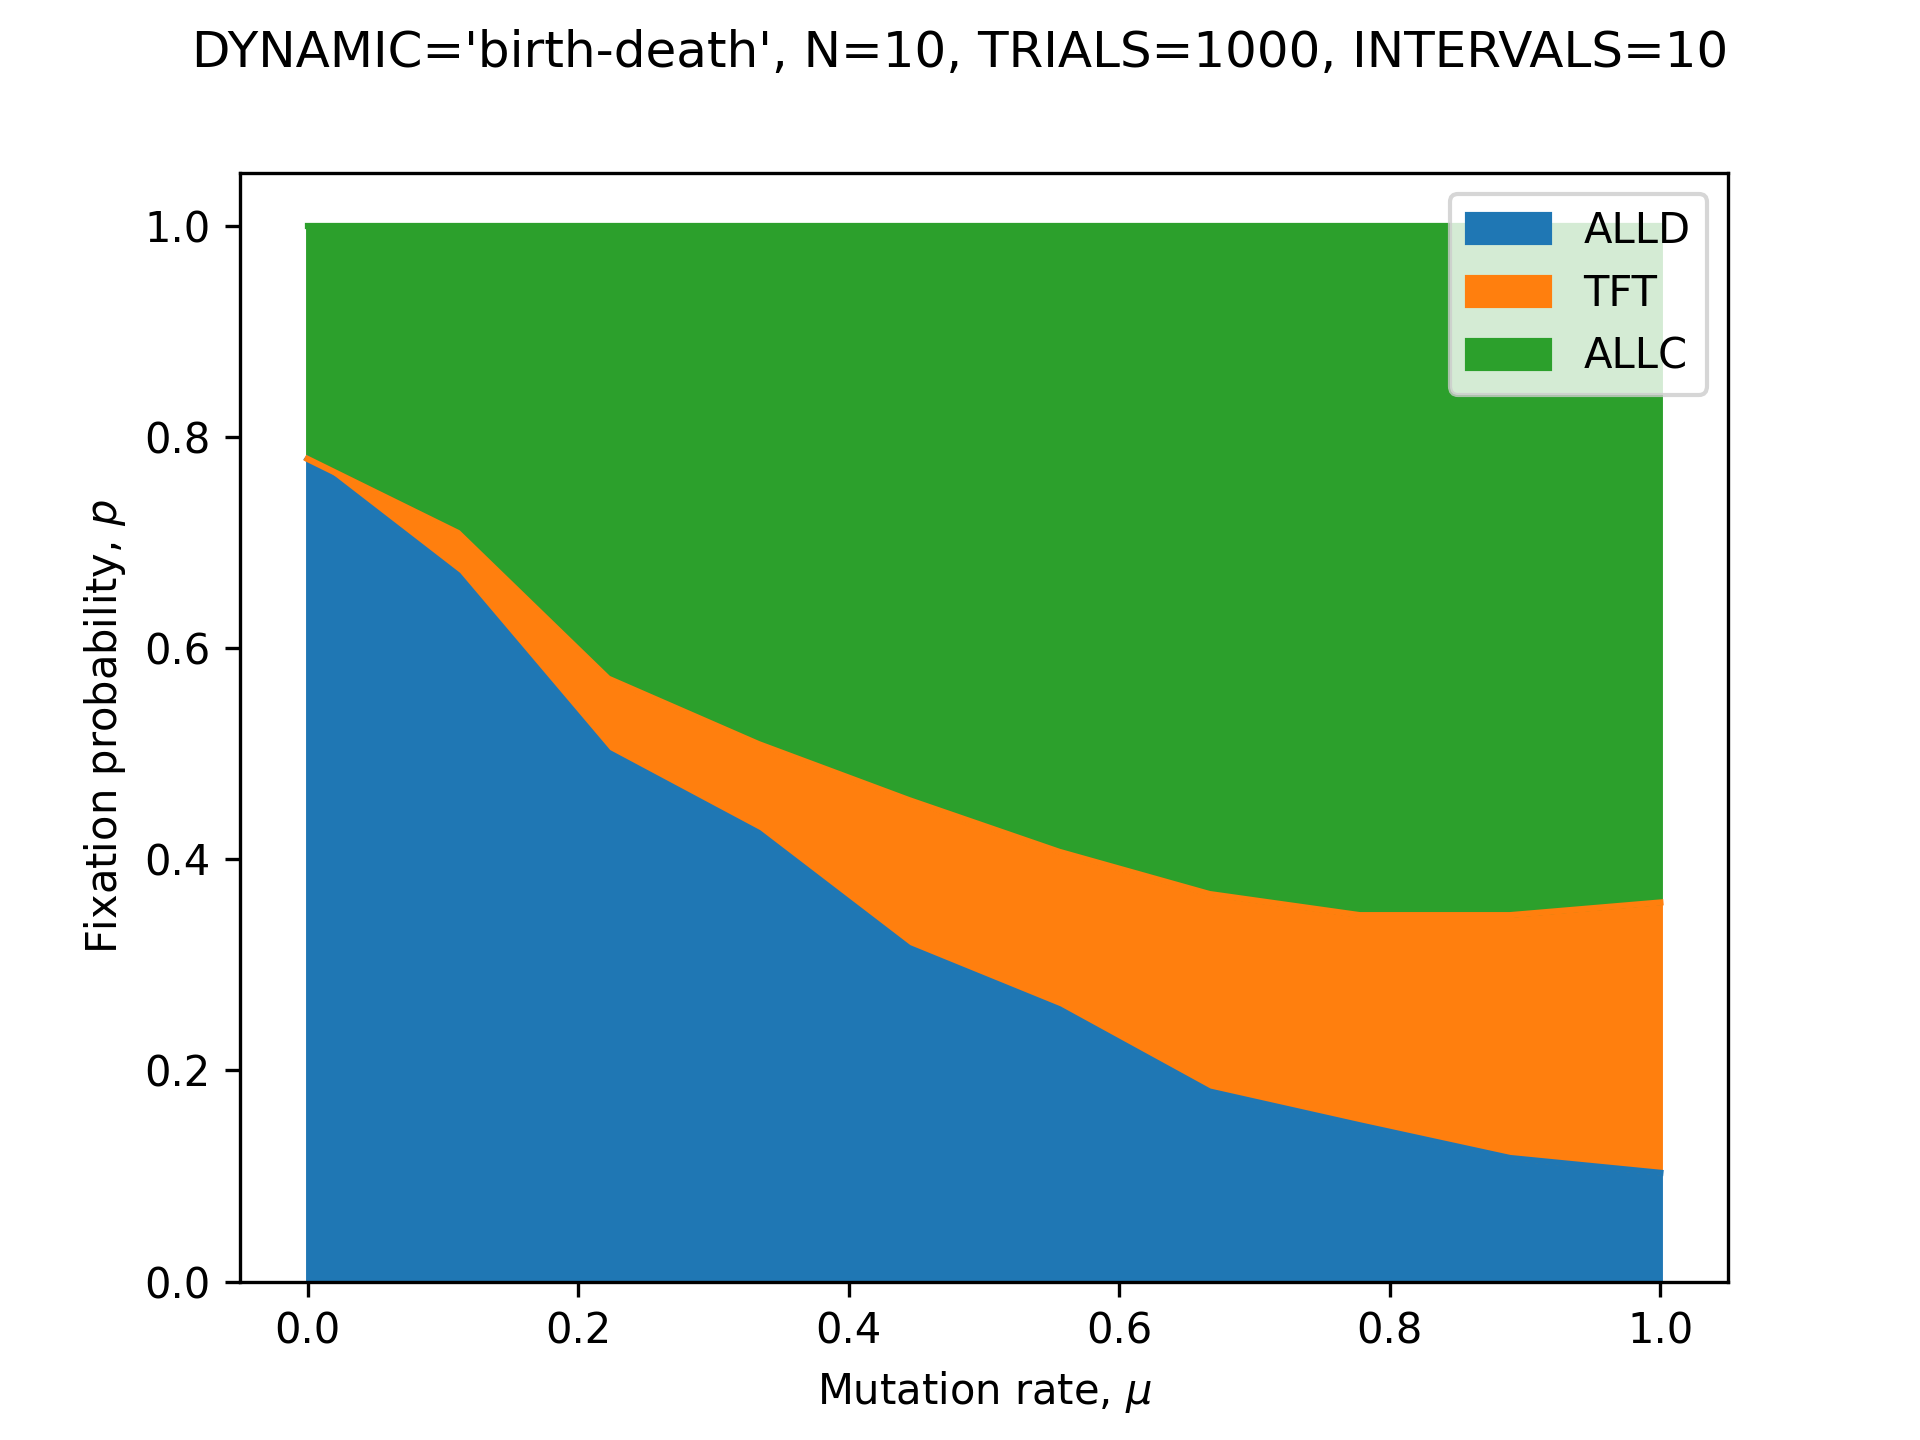
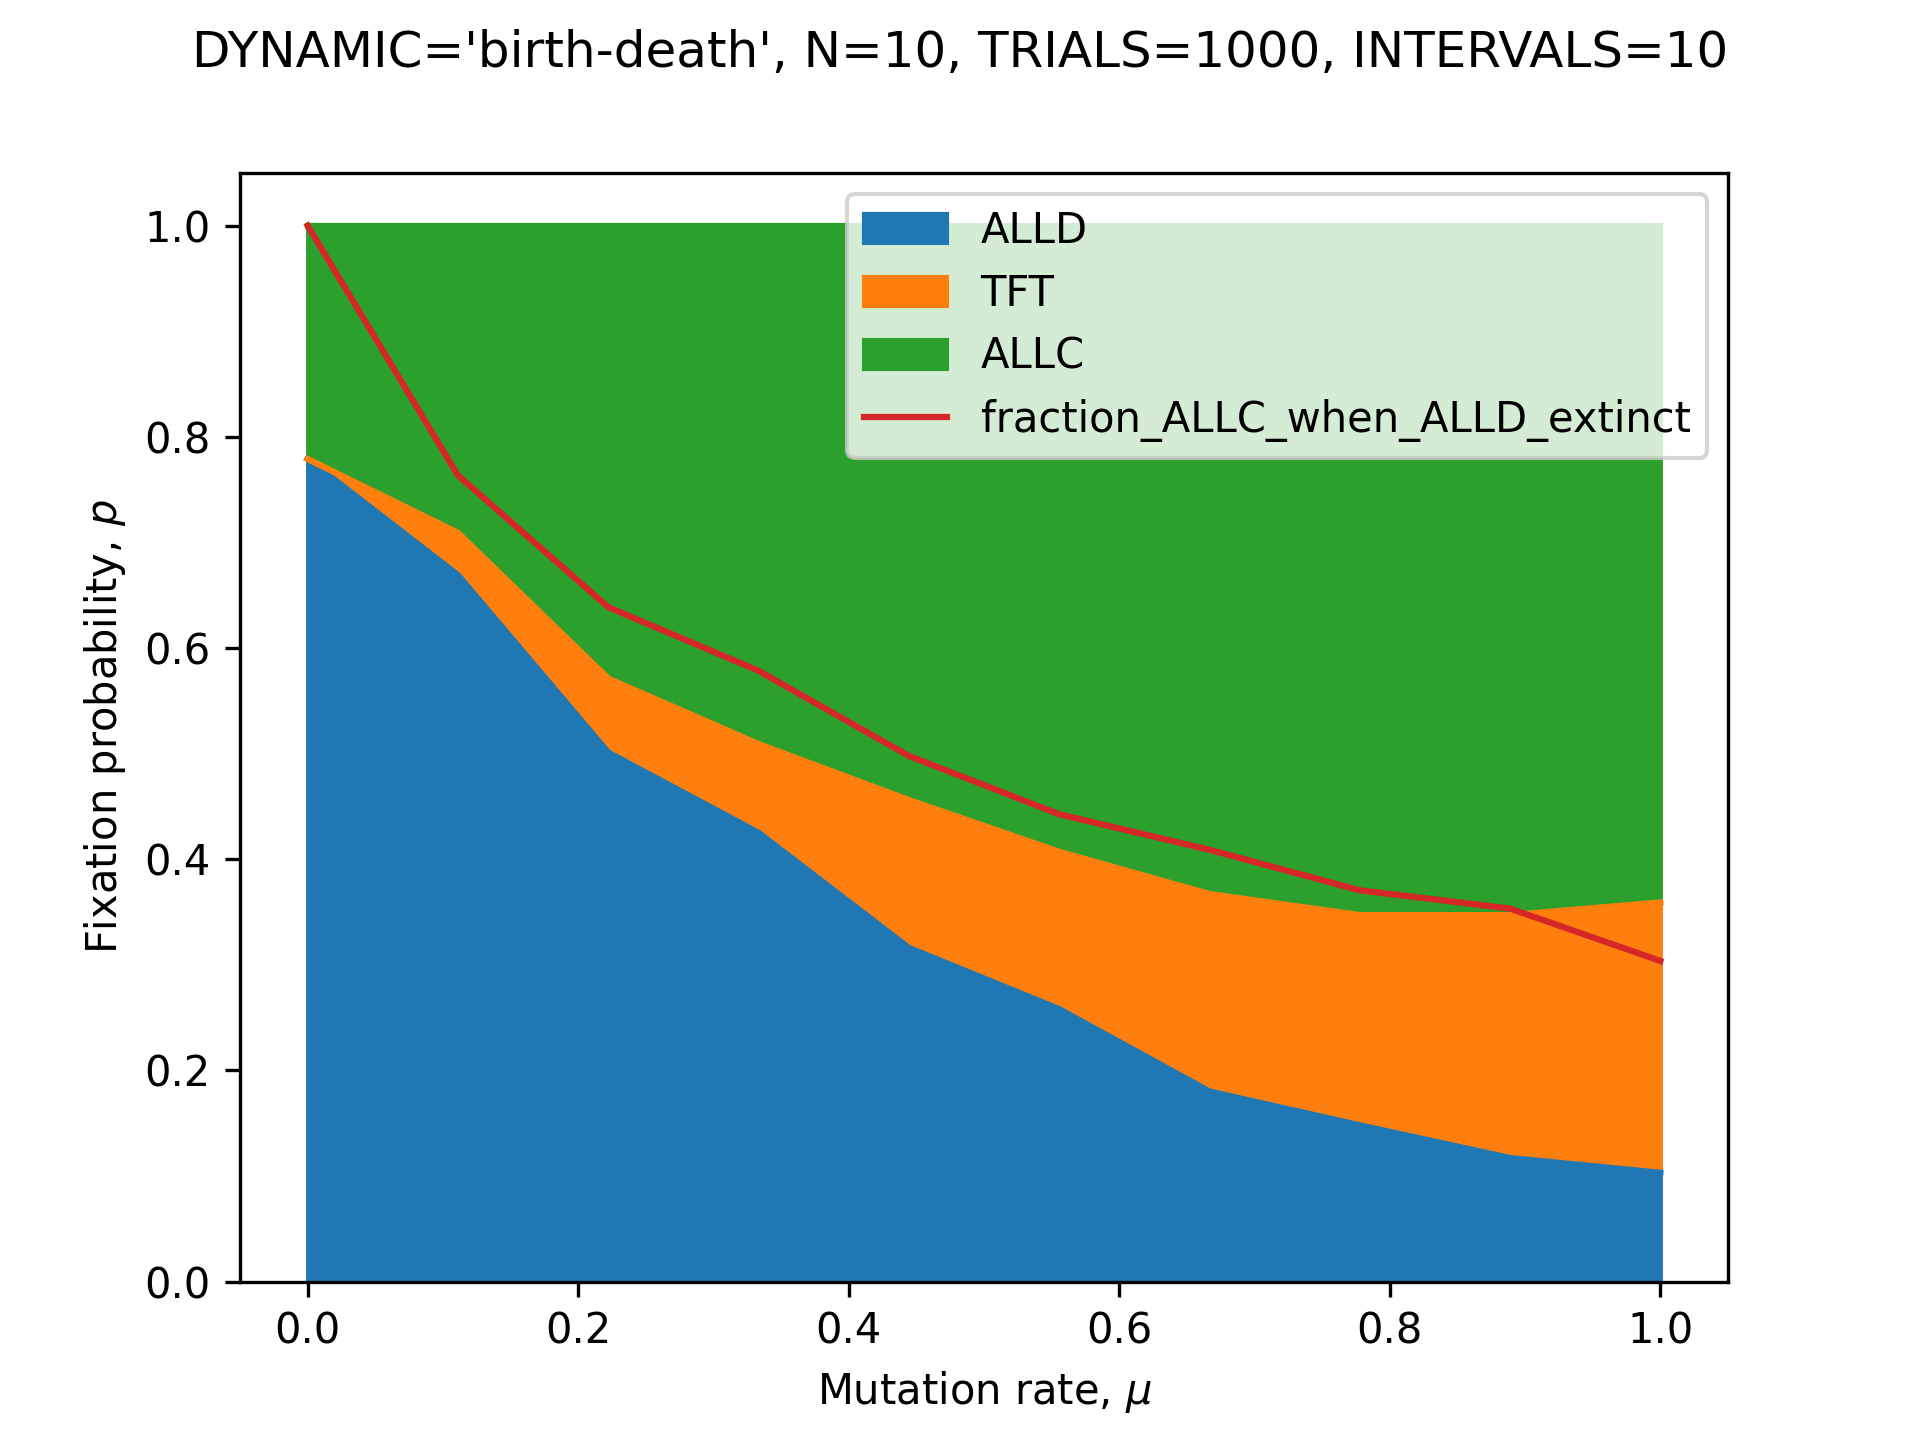
better logging + more metrics

diff --git a/martins-dream.py b/martins-dream.py
@@ -11,6 +11,7 @@ from enum import Enum
 from multiprocessing import Pool
 from typing import *
 from collections import Counter
+from customlogger import logger
 
 class Strategy(Enum):
   AlwaysCooperate = 'ALLC'
@@ -76,7 +77,7 @@ def possibly_mutate(strategy: Strategy, N: int, nTFT: int, nALLD: int, mu: float
   return strategy
 
 def pairwise_comparison(N: int, nALLC: int, nTFT: int, M: Payoffs, mu: float, back_mu: float):
-  # print(N, nALLC, nTFT, M, mu, back_mu)
+  # logger.info(N, nALLC, nTFT, M, mu, back_mu)
   assert 0 <= mu <= 1, mu
   nALLD = N-nALLC-nTFT
   assert nALLC + nTFT + nALLD == N
@@ -114,7 +115,7 @@ def imitation(N: int, nALLC: int, nTFT: int, M: Payoffs, mu: float, back_mu: flo
 
   strategy_picked_for_update = pick_individual_uniformly(N, nALLC, nTFT, nALLD)
   strategy_role_model = pick_individual_with_payoffs(N, nALLC, nTFT, M)
-  # print(nALLC, nTFT, nALLD, strategy_picked_for_update, strategy_role_model)
+  # logger.info(nALLC, nTFT, nALLD, strategy_picked_for_update, strategy_role_model)
 
   # Conditional mutation.
   new_strategy = possibly_mutate(strategy_role_model, N, nTFT, nALLD, mu, back_mu)
@@ -186,16 +187,12 @@ def birth_death_graph(G_games: nx.DiGraph, G_reproduction: nx.DiGraph, strategie
     individual: calculate_payoff_graph(G_games, strategies, individual, M)
     for individual in G_games.nodes()
   }
-  # print(payoffs)
-  # input()
   individual_to_give_birth = random.choices(
     population=list(G_games.nodes()),
     weights=[payoffs[individual] for individual in G_games.nodes()],
   )[0]
 
   # pick death location.
-  # print(individual_to_give_birth)
-  # print(G_reproduction.out_edges(individual_to_give_birth))
   individual_to_die = random.choices([neighbor_individual for _, neighbor_individual in G_reproduction.out_edges(individual_to_give_birth)])[0]
 
   # possibly mutate.
@@ -241,7 +238,7 @@ import copy
 
 def simulate_graph(G_games: nx.DiGraph, G_reproduction: nx.DiGraph, strategies: Dict[Any, Strategy], TRIALS: int, graph_dynamics, mu: float, back_mu: float):
   N = len(G_games)
-  print('start', mu, back_mu)
+  logger.info(('start', mu, back_mu))
   fixated = defaultdict(list)
 
   for trial in range(TRIALS):
@@ -250,7 +247,6 @@ def simulate_graph(G_games: nx.DiGraph, G_reproduction: nx.DiGraph, strategies: 
       strategies_p = graph_dynamics(G_games, G_reproduction, strategies_p, M, mu=mu, back_mu=back_mu)
 
     counts = Counter(strategies_p.values())
-    # print(counts)
     for strategy, nStrategy in zip(STRATEGIES, (counts[strategy] for strategy in STRATEGIES)):
       fixated[strategy].append(nStrategy == N)
 
@@ -259,12 +255,12 @@ def simulate_graph(G_games: nx.DiGraph, G_reproduction: nx.DiGraph, strategies: 
   for strategy in STRATEGIES:
     fp[strategy] = np.mean(fixated[strategy])
 
-  print('end', mu, back_mu)
+  logger.info(('end', mu, back_mu))
   return (N, mu, back_mu, *(fp[strategy] for strategy in STRATEGIES))
 
 
 def simulate(N: int, TRIALS: int, dynamics, mu: float, back_mu: float):
-  print('start', mu, back_mu)
+  logger.info(('start', mu, back_mu))
   fixated_ALLD = []
   fixated = defaultdict(list)
   fixated_ALLC_given_ALLD_extinct = []
@@ -274,17 +270,12 @@ def simulate(N: int, TRIALS: int, dynamics, mu: float, back_mu: float):
     nTFT = 0
     nALLD = 1
     tracked_ALLD_extinction = False
-    # print(f'trial #{trial}:')
     while all(nX < N for nX in (nALLC, nTFT, nALLD)):
-      # print(f'{nALLC=}, {nTFT=}, {nALLD=}')
-      # input()
       nALLCp, nTFTp = dynamics(N, nALLC, nTFT, M, mu=mu, back_mu=back_mu)
       nALLC, nTFT, nALLD = (nALLCp, nTFTp, N-(nALLCp + nTFTp))
       if nALLD == 0 and not tracked_ALLD_extinction:
         fractions_ALLC_when_ALLD_extinction.append(nALLC / N)
         tracked_ALLD_extinction = True
-    # print(f'{nALLC=}, {nTFT=}, {nALLD=}')
-    # input()
 
     fixated_ALLD.append(nALLD == N)
     for strategy, nStrategy in zip(STRATEGIES, (nALLC, nTFT, nALLD)):
@@ -299,7 +290,7 @@ def simulate(N: int, TRIALS: int, dynamics, mu: float, back_mu: float):
     fp[strategy] = np.mean(fixated[strategy])
   fp_ALLC_given_ALLD_extinct = np.mean(fixated_ALLC_given_ALLD_extinct)
   fraction_ALLC_when_ALLD_extinction = np.mean(fractions_ALLC_when_ALLD_extinction)
-  print('end', mu, back_mu)
+  logger.info(('end', mu, back_mu))
   return (N, mu, back_mu, *(fp[strategy] for strategy in STRATEGIES), fp_ALLC_given_ALLD_extinct, fraction_ALLC_when_ALLD_extinction)
 
 
@@ -316,7 +307,7 @@ import itertools
 INTERVALS = 10
 TRIALS = 1000
 NUM_WORKERS = 8
-DYNAMIC = 'birth-death-graph'
+DYNAMIC = 'birth-death'
 N = 10
 
 def collect_data_graph(G_games: nx.DiGraph, G_reproduction: nx.DiGraph, strategies: Dict[Any, Strategy]):
@@ -327,7 +318,6 @@ def collect_data_graph(G_games: nx.DiGraph, G_reproduction: nx.DiGraph, strategi
   # back_mus = TICKS
   mutations = [(mu, 0) for mu in mus]
   # mutations = list(itertools.product(mus, back_mus))
-  # print(mutations)
   if NUM_WORKERS > 1:
     with Pool(NUM_WORKERS) as p:
       for datum in p.starmap(functools.partial(simulate_graph, G_games, G_reproduction, strategies, TRIALS, DYNAMICS[DYNAMIC]), mutations):
@@ -346,7 +336,6 @@ def collect_data():
   # back_mus = TICKS
   mutations = [(mu, 0) for mu in mus]
   # mutations = list(itertools.product(mus, back_mus))
-  # print(mutations)
   if NUM_WORKERS > 1:
     with Pool(NUM_WORKERS) as p:
       for datum in p.starmap(functools.partial(simulate, N, TRIALS, DYNAMICS[DYNAMIC]), mutations):
@@ -357,64 +346,71 @@ def collect_data():
 
   return pd.DataFrame(data, columns=['N', 'mu', 'back_mu', 'fp_ALLC', 'fp_TFT', 'fp_ALLD', 'fp_ALLC_given_ALLD_extinct', 'fraction_ALLC_when_ALLD_extinct'])
 
-def stack_plot(df: pd.DataFrame):
+def stack_plot(dff: pd.DataFrame, **kwargs):
   # df = df[['fp_ALLD', 'fp_ALLC_given_ALLD_extinct', 'mu']]
   # df['fp_ALLC'] = df['fp_ALLC_given_ALLD_extinct'] * (1-df['fp_ALLD'])
   # df['fp_TFT'] = 1-(df['fp_ALLC'] + df['fp_ALLD'])
-  df = df.drop(columns=['fp_ALLC_given_ALLD_extinct'], errors='ignore')
+  df = dff.drop(columns=['fp_ALLC_given_ALLD_extinct'], errors='ignore')
   df = df[['mu', 'fp_ALLD', 'fp_TFT', 'fp_ALLC']]
   df = df.rename(columns={'fp_ALLD': 'ALLD', 'fp_TFT': 'TFT', 'fp_ALLC': 'ALLC'})
   ax = df.set_index('mu').plot(kind='area')
+  dff[['mu', 'fraction_ALLC_when_ALLD_extinct']].set_index('mu').plot.line(ax=ax)
   ax.set_ylabel(r'Fixation probability, $p$')
   ax.set_xlabel(r'Mutation rate, $\mu$')
   plt.legend(loc='upper right')
   fig = ax.get_figure()
   fig.suptitle(f"{DYNAMIC=}, {N=}, {TRIALS=}, {INTERVALS=}")
-  fig.savefig(get_plot_file_name(), dpi=300)
+  fig.savefig(get_plot_file_name(**kwargs), dpi=300)
   plt.show()
 
-def get_file_name() -> str:
-  return f'DYNAMIC:{DYNAMIC}-N{N}-TRIALS{TRIALS}-INTERVALS{INTERVALS}'
+def stringify_kwargs(**kwargs):
+  return '-'.join(f'{k}:{v}' for k, v in sorted(kwargs.items()))
 
-def get_plot_file_name() -> str:
-  return f'figs/{get_file_name()}.png'
+def get_file_name(**kwargs) -> str:
+  x = '-' if kwargs else ''
+  return f'DYNAMIC:{DYNAMIC}-N{N}-TRIALS{TRIALS}-INTERVALS{INTERVALS}{x}{stringify_kwargs(**kwargs)}'
 
-def get_data_file_name() -> str:
-  return f'data/{get_file_name()}.json'
+def get_plot_file_name(**kwargs) -> str:
+  return f'figs/{get_file_name(**kwargs)}.png'
+
+def get_data_file_name(**kwargs) -> str:
+  return f'data/{get_file_name(**kwargs)}.json'
 
 from pathlib import Path
 
-def load_data():
-  with Path(get_data_file_name()).open('r') as f:
+def load_data(**kwargs):
+  with Path(get_data_file_name(**kwargs)).open('r') as f:
     return pd.read_json(f, orient='records')
 
-def load_data_graph(G_games: nx.DiGraph, G_reproduction: nx.DiGraph, strategies: Dict[Any, Strategy]):
-  raise NotImplementedError()
-
-def store_data(df: pd.DataFrame):
-  with Path(get_data_file_name()).open('w') as f:
+def store_data(df: pd.DataFrame, **kwargs):
+  with Path(get_data_file_name(**kwargs)).open('w+') as f:
     df.to_json(f, orient='records')
 
-USE_EXISTING_DATA = False
 def main():
   df = (load_data if USE_EXISTING_DATA else collect_data)()
   store_data(df)
   stack_plot(df)
 
 def main_graph():
-  G_games: nx.DiGraph = nx.cycle_graph(N, create_using=nx.DiGraph)
-  G_reproduction: nx.DiGraph = nx.cycle_graph(N, create_using=nx.DiGraph)
-  for G in (G_games, G_reproduction):
-    for u, v in G.edges():
-      G.add_edge(v, u)
+  G_reproduction: nx.DiGraph = nx.to_directed(nx.path_graph(N))
+  G_games: nx.DiGraph = nx.to_directed(nx.path_graph(N))
+  G_reproduction_name = 'line'
+  G_games_name = 'line'
+
   strategies = {}
-  for idx in range(N-1):
-    strategies[idx] = Strategy.AlwaysCooperate
-  strategies[N-1] = Strategy.AlwaysDefect
+  for node in list(G_games.nodes())[:-1]:
+    strategies[node] = Strategy.AlwaysCooperate
+  strategies[list(G_games.nodes())[-1]] = Strategy.AlwaysDefect
 
-  df = (load_data_graph if USE_EXISTING_DATA else collect_data_graph)(G_games, G_reproduction, strategies)
-  # store_data(df)
-  stack_plot(df)
+  kwargs = {
+    'GAME_GRAPH': G_games_name,
+    'REPRODUCTION_GRAPH': G_reproduction_name,
+  }
 
+  df = load_data(**kwargs) if USE_EXISTING_DATA else collect_data_graph(G_games, G_reproduction, strategies)
+  store_data(df, **kwargs)
+  stack_plot(df, **kwargs)
+
+USE_EXISTING_DATA = True
 if __name__ == '__main__':
-  main_graph()
+  main()

diff --git a/mayeul/main.py b/mayeul/main.py
@@ -10,7 +10,7 @@ import numpy as np
 import matplotlib.pyplot as plt
 
 # Game parameters:
-N = 10
+N = 50
 b = 5
 c = 1
 
@@ -38,6 +38,12 @@ for mu in mus:
             # ALLC, ALLD, TFT
             mutation_matrix = np.array([[1-mu, 0,mu],[0,1,0],[0,0,1]])
         
+        print(bd.analytical_fixation_probability(
+            k=1,
+            N=N,
+            payoff_matrix=payoff_matrix[:2,:2]
+        ))
+        input()
         # number of dominations counted per strategy
         nb_dominations = np.zeros(len(payoff_matrix))
         for iterate_game in range(nb_games):

diff --git a/customlogger.py b/customlogger.py
@@ -1,0 +1,6 @@
+import logging
+
+logger = logging.getLogger(__name__)
+FORMAT = "%(asctime)s :: [%(levelname)-8s] :: %(message)s"
+logging.basicConfig(format=FORMAT)
+logger.setLevel(logging.INFO)
